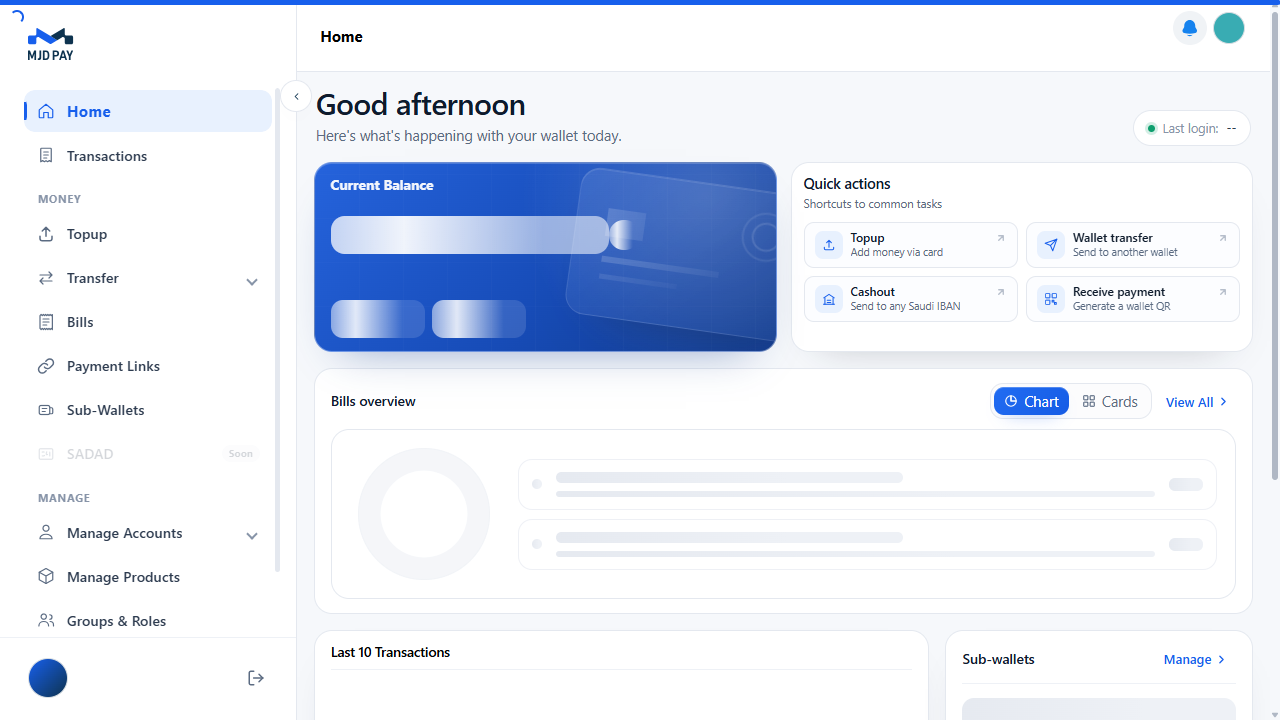
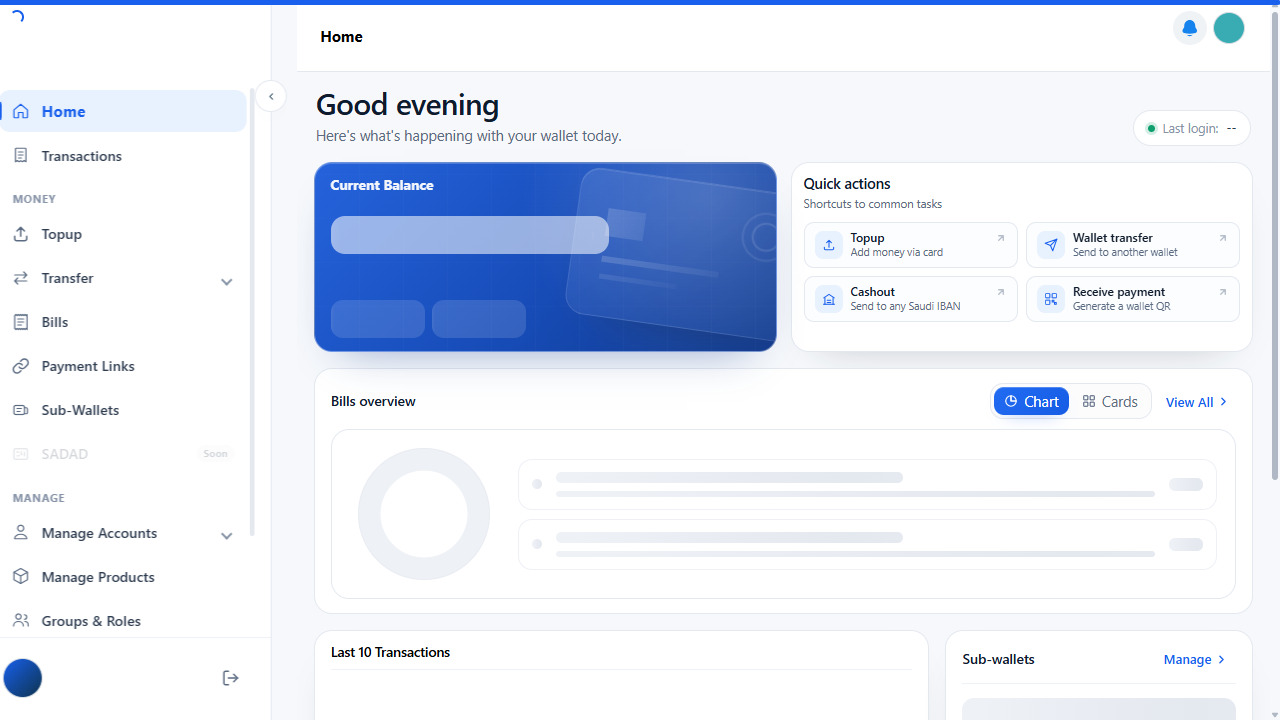
W2W TCs __  crn_validation and amount_validation and insufficient_fund TCs

diff --git a/tests/testCases/W2WTransferTests.spec.ts b/tests/testCases/W2WTransferTests.spec.ts
@@ -28,6 +28,8 @@ type W2WTestData = {
     otpCode?: string;
     expectedUIValue?: string;
     expectButtonDisabled?: boolean;
+    isClipboardTest?: boolean;
+    purposeOfTransfer?: string;
 };
 
 const dataSets = w2wData as W2WTestData[];
@@ -216,8 +218,8 @@ test.describe.serial('MajdPay W2W Transfer Tests', () => {
                 await w2w.enterAmount(data.amount);
 
                 // ── Step 5: Select Purpose of Transfer ──────────────────────────────
-                console.log('Step 5: Selecting a random Purpose of Transfer');
-                await w2w.selectRandomPurposeOfTransfer();
+                console.log(`Step 5: Selecting a specific Purpose of Transfer to bypass manual approval queues: "${data.purposeOfTransfer || 'Item purchases'}"`);
+                await w2w.selectSpecificPurposeOfTransfer(data.purposeOfTransfer || 'Item purchases');
                 await page.waitForTimeout(4000);
 
                 // ── Step 6: Click Amount Input (UI trigger) ──────────────────────────
@@ -270,7 +272,7 @@ test.describe.serial('MajdPay W2W Transfer Tests', () => {
                 while (status.toLowerCase() === 'pending' && retries > 0) {
                     console.log(`   Status is Pending. Retrying... (${retries} attempts left)`);
                     await page.waitForTimeout(3000);
-                    await page.reload({ waitUntil: 'networkidle' }).catch(() => null);
+                    await page.reload({ waitUntil: 'networkidle' });
                     status = await transactionsPage.validateLastTransactionAndReturnStatus(data.amount);
                     console.log(`   Latest transaction status fetched: "${status}"`);
                     retries--;
@@ -288,28 +290,43 @@ test.describe.serial('MajdPay W2W Transfer Tests', () => {
     // SUITE 3: Invalid CRN Scenarios
     // ============================================================
 
-    test.describe('W2W Transfer — Invalid CRN Should Fail', () => {
+    test.describe.serial('W2W Transfer — Invalid CRN Error Handling', () => {
         const invalidCrnTests = dataSets.filter(d => d.suite === 'invalid_crn');
+
+        let sharedPage: import('@playwright/test').Page;
+        let w2w: W2WTransferPage;
+        let homePage: HomePage;
+
+        test.beforeAll(async ({ browser }) => {
+            const context = await browser.newContext();
+            sharedPage = await context.newPage();
+
+            // Find the first valid data object to extract login credentials
+            const baselineData = invalidCrnTests.find(d => d.execute) || invalidCrnTests[0];
+
+            console.log('--- beforeAll: Starting single shared browser context for Invalid CRN testing ---');
+            await performLogin(
+                sharedPage,
+                baselineData.companyNumber,
+                baselineData.mobileNumber,
+                baselineData.password,
+                baselineData.otpCode ?? '0000'
+            );
+
+            w2w = new W2WTransferPage(sharedPage);
+            homePage = new HomePage(sharedPage);
+
+            await homePage.clickW2WTransferButton();
+        });
 
         for (const data of invalidCrnTests) {
             if (!data.execute) continue;
 
-            test(`${data.testName} | CRN Type: ${data.crnType}`, async ({ page }) => {
-
-                // ── Step 1: Login ────────────────────────────────────────────────────
-                console.log('Step 1: Open login page and enter Merchant credentials');
-                await performLogin(page, data.companyNumber, data.mobileNumber, data.password, data.otpCode ?? '0000');
-                console.log('   Merchant login successful ✔');
-
-                const w2w = new W2WTransferPage(page);
-                const homePage = new HomePage(page);
-
-                // ── Step 2: Navigate to W2W Transfer ────────────────────────────────
-                console.log('Step 2: Navigate to W2W Transfer screen');
-                await homePage.clickW2WTransferButton();
+            test(`${data.testName} | CRN Type: ${data.crnType}`, async () => {
 
                 // ── Step 3: Enter invalid CRN ────────────────────────────────────────
                 console.log(`Step 3: Entering invalid Receiver CRN: "${data.receiverCRN}" (Type: ${data.crnType})`);
+                await w2w.inputCRN.clear();
                 await w2w.enterCRN(data.receiverCRN);
 
                 // ── Step 4: Click Check Recipient ────────────────────────────────────
@@ -324,16 +341,23 @@ test.describe.serial('MajdPay W2W Transfer Tests', () => {
                 } else {
                     // ── Step 5: Allow API lookup to complete ────────────────────────────
                     console.log('Step 5: Waiting for CRN lookup response...');
-                    await page.waitForTimeout(6000);
+                    await sharedPage.waitForTimeout(6000);
 
                     // ── Step 6: Enter Transfer Amount ────────────────────────────────────
                     console.log(`Step 6: Entering Transfer Amount: "${data.amount}"`);
+                    await w2w.inputAmount.clear();
                     await w2w.enterAmount(data.amount);
 
                     // ── Step 7: Assert company name div is EMPTY (CRN not found) ─────────
                     console.log('Step 7: Asserting company name div is empty — confirming CRN was rejected');
                     await w2w.assertCompanyNameIsEmpty();
                     console.log(`   Invalid CRN "${data.crnType}" correctly rejected (div empty) ✔`);
+                }
+
+                // Reset state for next iteration safely
+                await w2w.inputCRN.clear();
+                if (await w2w.inputAmount.isVisible()) {
+                    await w2w.inputAmount.clear();
                 }
             });
         }
@@ -343,47 +367,87 @@ test.describe.serial('MajdPay W2W Transfer Tests', () => {
     // SUITE 4: Amount Field Validation (Prevents Invalid Input)
     // ============================================================
 
-    test.describe('W2W Transfer — Amount Field Prevents Invalid Input', () => {
+    test.describe.serial('W2W Transfer — Amount Field Input Validation Layout', () => {
         const amountValidationTests = dataSets.filter(d => d.suite === 'amount_validation');
+
+        let sharedPage: import('@playwright/test').Page;
+        let w2w: W2WTransferPage;
+        let homePage: HomePage;
+
+        test.beforeAll(async ({ browser }) => {
+            const context = await browser.newContext();
+            await context.grantPermissions(['clipboard-read', 'clipboard-write']);
+            sharedPage = await context.newPage();
+
+            const baselineData = amountValidationTests.find(d => d.execute) || amountValidationTests[0];
+
+            console.log('--- beforeAll: Starting single shared browser context for Amount Validation testing ---');
+            await performLogin(
+                sharedPage,
+                baselineData.companyNumber,
+                baselineData.mobileNumber,
+                baselineData.password,
+                baselineData.otpCode ?? '0000'
+            );
+
+            w2w = new W2WTransferPage(sharedPage);
+            homePage = new HomePage(sharedPage);
+
+            await homePage.clickW2WTransferButton();
+
+            // Setup persistent form state: Enter a valid CRN and click Check Recipient to reveal amount field
+            console.log(`--- beforeAll: Navigating to W2W Transfer and unlocking wizard with baseline CRN "${baselineData.receiverCRN}" ---`);
+            await w2w.inputCRN.clear();
+            await w2w.enterCRN(baselineData.receiverCRN);
+            await w2w.clickCheckRecipient();
+
+            // Wait for company name div or amount field to be visible to ensure form unlocked
+            await sharedPage.waitForTimeout(4000);
+
+            // Select Purpose of Transfer to unlock the Proceed button state permanently
+            await w2w.selectRandomPurposeOfTransfer();
+        });
 
         for (const data of amountValidationTests) {
             if (!data.execute) continue;
 
-            test(`${data.testName} | Validation Type: ${data.amountValidation}`, async ({ page }) => {
+            test(`${data.testName} | Validation Type: ${data.amountValidation}`, async () => {
 
-                // ── Step 1: Login ────────────────────────────────────────────────────
-                console.log('Step 1: Open login page and enter Merchant credentials');
-                await performLogin(page, data.companyNumber, data.mobileNumber, data.password, data.otpCode ?? '0000');
-                console.log('   Merchant login successful ✔');
+                console.log(`Step 3: Interacting with Transfer Amount: "${data.amount}"`);
+                await w2w.inputAmount.clear();
 
-                const w2w = new W2WTransferPage(page);
-                const homePage = new HomePage(page);
+                if (data.isClipboardTest) {
+                    console.log(`   Pasting amount via clipboard: "${data.amount}"`);
+                    await w2w.inputAmount.focus();
+                    await sharedPage.evaluate((text) => navigator.clipboard.writeText(text), data.amount);
+                    const modifier = process.platform === 'darwin' ? 'Meta' : 'Control';
+                    await sharedPage.keyboard.press(`${modifier}+V`);
+                } else {
+                    console.log(`   Typing amount sequentially: "${data.amount}"`);
+                    if (data.amount !== "") {
+                        await w2w.inputAmount.pressSequentially(data.amount, { delay: 50 });
+                    }
+                }
 
-                // ── Step 2: Navigate to W2W Transfer ────────────────────────────────
-                console.log('Step 2: Navigate to W2W Transfer page');
-                await homePage.clickW2WTransferButton();
+                if (data.expectedUIValue !== undefined) {
+                    // Verify the value is accurately rendered or filtered
+                    const enteredAmount = await w2w.getAmountValue();
+                    expect(enteredAmount).toBe(data.expectedUIValue);
+                    console.log(`   Passed: UI Filter successfully evaluated the input. Field value is currently: [${enteredAmount}]`);
+                }
 
-                // ── Step 3: Enter Receiver CRN ───────────────────────────────────────
-                console.log(`Step 3: Entering Receiver CRN: "${data.receiverCRN}"`);
-                await w2w.enterCRN(data.receiverCRN);
+                if (data.expectButtonDisabled) {
+                    // Proceed button should be strictly disabled
+                    await expect(w2w.proceedButton).toBeDisabled({ timeout: 5000 });
+                    console.log('   Passed: Proceed button is correctly DISABLED for this invalid case.');
+                } else {
+                    // Ensure system recognizes the input and activates the UI transfer button
+                    await expect(w2w.proceedButton).toBeEnabled({ timeout: 5000 });
+                    console.log('   Passed: Proceed button is correctly ENABLED for this valid case.');
+                }
 
-                // ── Step 4: Click Check Recipient ────────────────────────────────────
-                console.log('Step 4: Clicking Check Recipient button');
-                await w2w.clickCheckRecipient();
-                await page.waitForTimeout(4000);
-
-                // ── Step 5: Enter invalid amount ──────────────────────────────────────
-                console.log(`Step 5: Verifying invalid amount: "${data.amount}" (Type: ${data.amountValidation})`);
-                await w2w.enterAmount(data.amount);
-
-                // ── Step 6: Assert the field did NOT accept the invalid amount ────────
-                console.log('Step 5: Asserting the amount field filtered/blocked the invalid input');
-                await w2w.assertInvalidAmountNotAccepted(data.amount, data.amountValidation ?? '');
-
-                // ── Step 6: Assert Check Recipient button is DISABLED ─────────────────
-                console.log('Step 6: Validating Check Recipient button is DISABLED for invalid amount');
-                await w2w.assertCheckRecipientButtonIsDisabled();
-                console.log(`   Amount validation for "${data.amountValidation}" PASSED ✔`);
+                // Cleanly clear the amount input box at the end of each test
+                await w2w.inputAmount.clear();
             });
         }
     });
@@ -454,38 +518,54 @@ test.describe.serial('MajdPay W2W Transfer Tests', () => {
     // SUITE 6: CRN Input Validation (Boundary & Characters)
     // ============================================================
 
-    test.describe('W2W Transfer — CRN Field Input Validation', () => {
+    test.describe.serial('W2W Transfer — CRN Field Input Validation Layout', () => {
         const crnValidationTests = dataSets.filter(d => d.suite === 'crn_validation');
+
+        let sharedPage: import('@playwright/test').Page;
+        let w2wTransferPage: W2WTransferPage;
+        let homePage: HomePage;
+
+        test.beforeAll(async ({ browser }) => {
+            const context = await browser.newContext();
+            sharedPage = await context.newPage();
+
+            // Find the first valid data object to extract login credentials
+            const baselineData = crnValidationTests.find(d => d.execute) || crnValidationTests[0];
+
+            console.log('--- beforeAll: Starting single shared browser context for CRN boundary testing ---');
+            // Execute single persistent login
+            await performLogin(
+                sharedPage,
+                baselineData.companyNumber,
+                baselineData.mobileNumber,
+                baselineData.password,
+                baselineData.otpCode ?? '0000'
+            );
+
+            w2wTransferPage = new W2WTransferPage(sharedPage);
+            homePage = new HomePage(sharedPage);
+
+            // Navigate to W2W Transfer once
+            await homePage.clickW2WTransferButton();
+        });
 
         for (const data of crnValidationTests) {
             if (!data.execute) continue;
 
-            test(`${data.testName} | Validation Type: ${data.crnType}`, async ({ page }) => {
-
-                // ── Step 1: Login ────────────────────────────────────────────────────
-                console.log('Step 1: Open login page and enter Merchant credentials');
-                await performLogin(page, data.companyNumber, data.mobileNumber, data.password, data.otpCode ?? '0000');
-                console.log('   Merchant login successful ✔');
-
-                const w2w = new W2WTransferPage(page);
-                const homePage = new HomePage(page);
-
-                // ── Step 2: Navigate to W2W Transfer ────────────────────────────────
-                console.log('Step 2: Navigate to W2W Transfer screen');
-                await homePage.clickW2WTransferButton();
+            test(`${data.testName} | Validation Type: ${data.crnType}`, async () => {
 
                 // ── Step 3: Type into CRN Field ──────────────────────────────────────
                 console.log(`Step 3: Typing Receiver CRN: "${data.receiverCRN}"`);
                 // Clear first, then type sequentially to simulate real input
-                await w2w.inputCRN.clear();
+                await w2wTransferPage.inputCRN.clear();
                 if (data.receiverCRN) {
-                    await w2w.inputCRN.pressSequentially(data.receiverCRN, { delay: 50 });
+                    await w2wTransferPage.inputCRN.pressSequentially(data.receiverCRN, { delay: 50 });
                 }
 
                 // ── Step 4: Validate UI filtering behavior ───────────────────────────
                 if (data.expectedUIValue !== undefined) {
                     console.log(`Step 4: Asserting UI filtered the value to: "${data.expectedUIValue}"`);
-                    const actualValue = await w2w.inputCRN.inputValue();
+                    const actualValue = await w2wTransferPage.inputCRN.inputValue();
                     if (actualValue !== data.expectedUIValue) {
                         throw new Error(`CRN input filter failed. Expected UI to show "${data.expectedUIValue}", but found "${actualValue}"`);
                     }
@@ -496,14 +576,15 @@ test.describe.serial('MajdPay W2W Transfer Tests', () => {
                 // ── Step 5: Assert Button State ──────────────────────────────────────
                 console.log(`Step 5: Asserting Check Recipient button state. Expecting disabled: ${data.expectButtonDisabled}`);
                 if (data.expectButtonDisabled) {
-                    await expect(w2w.checkRecipientButton).toBeDisabled({ timeout: 5000 });
+                    await expect(w2wTransferPage.checkRecipientButton).toBeDisabled({ timeout: 5000 });
                     console.log('   Assertion Passed: Check Recipient button is correctly DISABLED ✔');
                 } else {
-                    await expect(w2w.checkRecipientButton).toBeEnabled({ timeout: 5000 });
+                    await expect(w2wTransferPage.checkRecipientButton).toBeEnabled({ timeout: 5000 });
                     console.log('   Assertion Passed: Check Recipient button is correctly ENABLED ✔');
                 }
 
-                // Terminate test here as requested — no backend checks needed for UI boundary tests
+                // Crucial: Clear or reset the field at the end of each test so the next scenario starts with a clean input box.
+                await w2wTransferPage.inputCRN.clear();
             });
         }
     });

diff --git a/tests/pageObjects/W2WTransferPage.ts b/tests/pageObjects/W2WTransferPage.ts
@@ -390,6 +390,36 @@ export class W2WTransferPage {
     }
 
     /**
+     * Selects a specific option from the Purpose of Transfer dropdown.
+     */
+    async selectSpecificPurposeOfTransfer(purpose: string) {
+        await this.openPurposeOfTransferDropdown();
+        console.log(`   PurposeOfTransfer dropdown opened. Targeting: "${purpose}"`);
+
+        const optionsLocator = this.page.locator(
+            '[id*="floating-dropdown-purpose-of-transfer"][id*="panel"] [role="option"],' +
+            ' [id*="purpose-of-transfer-panel"] [role="option"],' +
+            ' mat-option'
+        );
+
+        await expect(optionsLocator.first()).toBeVisible({ timeout: 10000 });
+
+        const targetOption = optionsLocator.filter({ hasText: new RegExp(`^\\s*${purpose}\\s*$`, 'i') }).first();
+        await targetOption.scrollIntoViewIfNeeded();
+        await this.page.waitForTimeout(300);
+
+        try {
+            await targetOption.click({ timeout: 5000 });
+        } catch {
+            console.log('   Standard click intercepted — attempting force click via JS');
+            await targetOption.evaluate((el: HTMLElement) => el.click());
+        }
+
+        const selectedText = (await targetOption.textContent())?.trim() ?? '';
+        console.log(`   Selected Purpose of Transfer: "${selectedText}"`);
+    }
+
+    /**
      * Clicks the amount input to trigger any blur/focus validation events.
      * Mirrored from Java: clickAmountInput()
      */